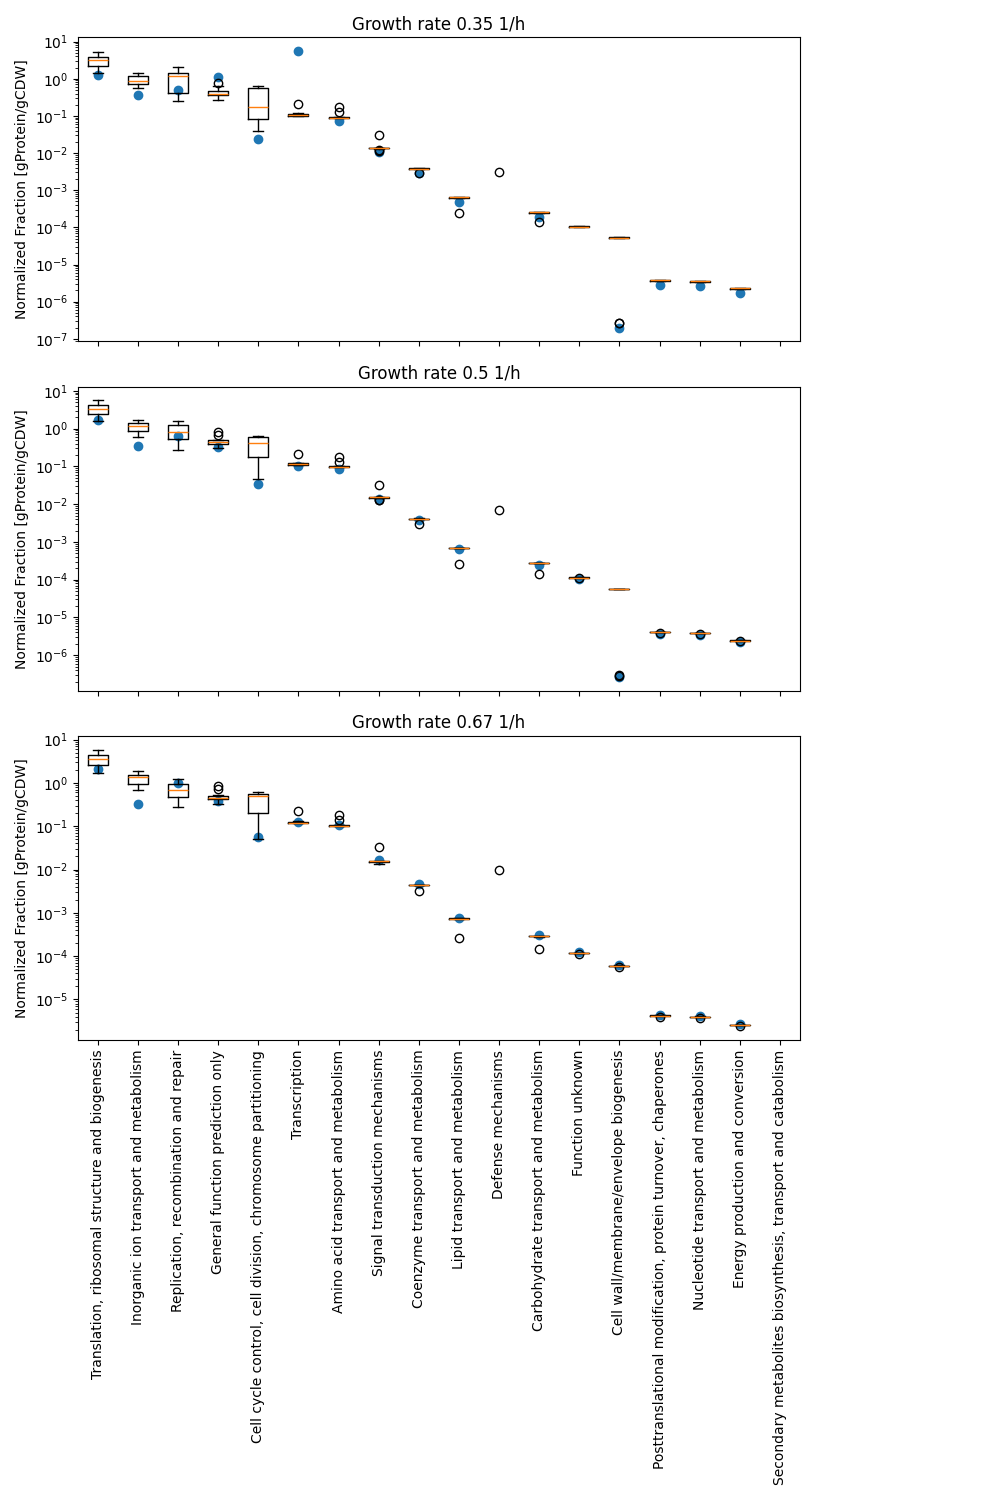
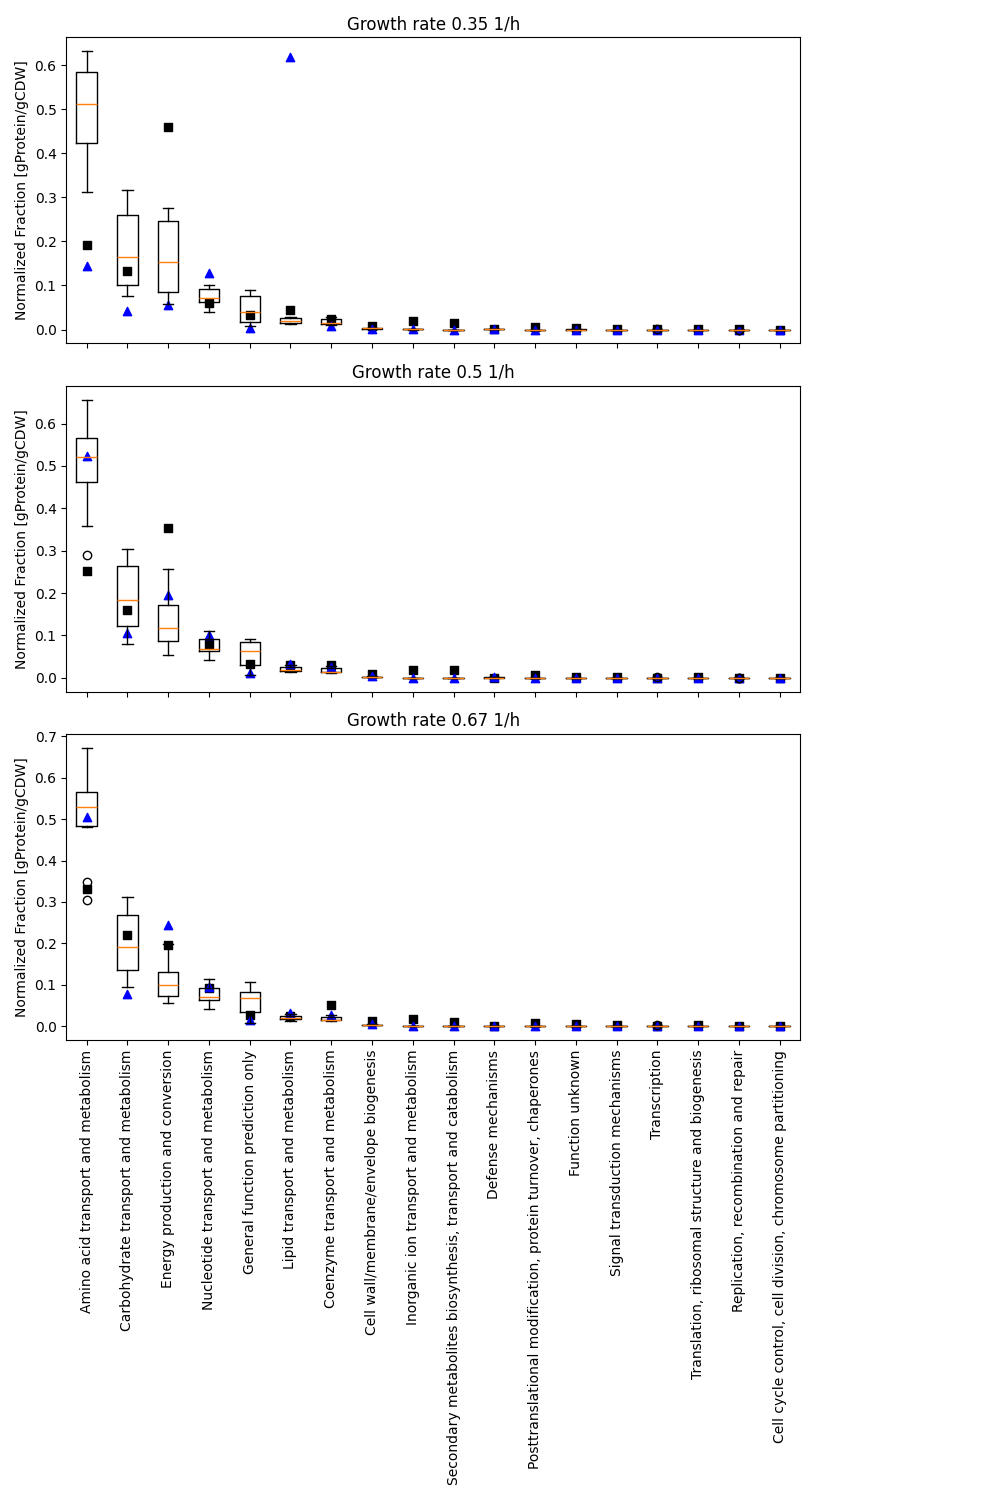
worked on figure for showing changes in protein concentration

diff --git a/Figures/Scripts/Figure3_kcat_protein_analysis.py b/Figures/Scripts/Figure3_kcat_protein_analysis.py
@@ -414,10 +414,11 @@ def parse_input_proteomics_data(ref_proteome_data_file:str,
                                 var_name='experiment', value_name='fraction').rename({'experiment': 'method'}, axis = 1)
     return ref_proteomics_normalized
 
-def get_changes_in_protein_abundance_per_cog(protein_conc_vs_cog_df):
+def get_changes_in_protein_abundance_per_cog(protein_conc_vs_cog_df,
+                                             per_method = False):
     measured_proteins = protein_conc_vs_cog_df.drop_duplicates(['enzyme_id', 'method'])
     measured_proteins['model'] = 'Measurements'
-    measured_proteins['fraction'] = measured_proteins['normalized_fraction']
+    protein_conc_vs_cog_df['fraction'] = protein_conc_vs_cog_df['normalized_fraction']
     total_proteome_df_cog_sum = pd.concat([protein_conc_vs_cog_df, measured_proteins])
     total_proteome_df_cog_sum = total_proteome_df_cog_sum.drop_duplicates()
 
@@ -428,20 +429,22 @@ def get_changes_in_protein_abundance_per_cog(protein_conc_vs_cog_df):
         lambda x: x if x < 0 else 0)
 
     # Compute the sum of 'fraction' for each model
-    total_proteome_df_cog_sum['fraction_sums'] = total_proteome_df_cog_sum.groupby(['model'])['fraction'].transform(
+    fraction_groups = ['model', 'method'] if per_method else ['model']
+    total_proteome_df_cog_sum['fraction_sums'] = total_proteome_df_cog_sum.groupby(fraction_groups)['fraction'].transform(
         'sum')
+    print(total_proteome_df_cog_sum)
     total_proteome_df_cog_sum['positive_change'] = total_proteome_df_cog_sum['positive_change'] / \
                                                    total_proteome_df_cog_sum['fraction_sums']
     # Aggregate the data and divide by the fraction sum per model
 
-    cog_summary_sum = total_proteome_df_cog_sum.groupby(['COG Name', 'model']).agg({
+    cog_summary_sum = total_proteome_df_cog_sum.groupby(['COG Name']+fraction_groups).agg({
         'positive_change': 'sum',
         'negative_change': 'sum'
     }).reset_index()
 
     cog_summary_long_sum = pd.melt(
         cog_summary_sum,
-        id_vars=['COG Name', 'model'],
+        id_vars=['COG Name']+fraction_groups,
         value_vars=['positive_change', 'negative_change'],
         var_name='Change Type',
         value_name='Change'
@@ -472,6 +475,8 @@ def create_proteomics_bargraph(got_enzymes_file: str,
     measured_protein_concentrations = parse_input_proteomics_data(ref_proteome_data_file=ref_proteome_data_file,
                                                                   uniprot_ref_file=uniprot_ref_file,
                                                                   got_enzymes_file=got_enzymes_file)
+    # print(simulated_protein_concentrations)
+    # print(measured_protein_concentrations)
     all_protein_concentrations = pd.merge(simulated_protein_concentrations, measured_protein_concentrations,
                                  on=['method', 'enzyme_id', 'rxn_id'], how='inner')
 
@@ -479,10 +484,33 @@ def create_proteomics_bargraph(got_enzymes_file: str,
                                                         left_on='b_number',
                                                         right_index=True).drop_duplicates()
     cog_changed_protein_conc = get_changes_in_protein_abundance_per_cog(protein_conc_vs_cog_df,)
+    # measured_proteins = all_protein_concentrations.drop_duplicates(['enzyme_id', 'method'])
+    # measured_proteins['model'] = 'Measurements'
+    # total_proteome_df_cog_sum = pd.concat([all_protein_concentrations, measured_proteins])
+    # protein_conc_vs_cog_df = (total_proteome_df_cog_sum
+    #                           .merge(protein2cog_df[['COG Name']],
+    #                                  left_on='b_number',
+    #                                  right_index=True)
+    #                           .drop_duplicates()[
+    #                               ['enzyme_id', 'rxn_id', 'model', 'COG Name', 'method', 'normalized_fraction',
+    #                                'fraction']]
+    #                           .groupby(['model', 'COG Name', 'method'])
+    #                           .sum()
+    #                           .reset_index()
+    #                           )
+    # protein_conc_vs_cog_df = protein_conc_vs_cog_df.drop_duplicates()
+    # cog_changed_protein_conc = protein_conc_vs_cog_df
+    # # cog_changed_protein_conc = protein_conc_vs_cog_df[protein_conc_vs_cog_df.method == 'Batch']
+    # cog_changed_protein_conc['COG description'] = cog_changed_protein_conc['COG Name']
+    # cog_changed_protein_conc['Change'] = cog_changed_protein_conc['normalized_fraction']
+    # cog_changed_protein_conc['alternative'] = cog_changed_protein_conc['model']
+    # print(cog_changed_protein_conc.alternative.unique())
 
     create_cog_barplot(cog_changed_protein_conc, ax, plotting_threshold=0.2, legend=True,
                        xlabel=r'$\sum\frac{g_{prot,COG}}{g_{protein}}$',
-                       other_colors={'GotEnzymes': 'grey', 'Measurements': 'grey', 'After preprocessing': 'black'})
+                       other_colors={'Measurements': 'grey','After preprocessing': 'black'})
+
+                       # other_colors={'GotEnzymes': 'grey',  'After preprocessing': 'black'})
 
 def create_proteomics_linegraphs(got_enzymes_file: str,
                                multi_file: str,
@@ -509,47 +537,64 @@ def create_proteomics_linegraphs(got_enzymes_file: str,
     all_protein_concentrations = pd.merge(simulated_protein_concentrations, measured_protein_concentrations,
                                  on=['method', 'enzyme_id', 'rxn_id'], how='inner')
 
-    protein_conc_vs_cog_df = (all_protein_concentrations
-                              .merge(protein2cog_df[['COG Name']],
-                                                        left_on='b_number',
-                                                        right_index=True)
-                              .drop_duplicates()[['enzyme_id', 'rxn_id', 'model', 'COG Name','method', 'normalized_fraction', 'fraction']]
-                              .groupby(['model', 'COG Name','method'])
-                              .sum()
-                              .reset_index()
-                              )
-    cog_order = (protein_conc_vs_cog_df.groupby('COG Name')
-               .sum()
-               .sort_values(by=['normalized_fraction'], ascending=False)
-               .reset_index()
-               )['COG Name']
 
+    protein_conc_vs_cog_df = all_protein_concentrations.merge(protein2cog_df[['COG Name']],
+                                                        left_on='b_number',
+                                                        right_index=True).drop_duplicates()
+    cog_changed_protein_conc = get_changes_in_protein_abundance_per_cog(protein_conc_vs_cog_df,
+                                                                        per_method = True)
+    cog_changed_protein_conc['model'] = cog_changed_protein_conc['alternative']
+
+    # protein_conc_vs_cog_df = (all_protein_concentrations
+    #                           .merge(protein2cog_df[['COG Name']],
+    #                                                     left_on='b_number',
+    #                                                     right_index=True)
+    #                           .drop_duplicates()[['enzyme_id', 'rxn_id', 'model', 'COG Name','method', 'normalized_fraction', 'fraction']]
+    #                           .groupby(['model', 'COG Name','method'])
+    #                           .sum()
+    #                           .reset_index()
+    #                           )
+    print(cog_changed_protein_conc.columns)
+    cog_order = (cog_changed_protein_conc.groupby('COG description')
+               .sum()
+               .sort_values(by=['Change'], ascending=False)
+               .reset_index()
+               )['COG description']
+    print(cog_order)
+    print(cog_changed_protein_conc.groupby('COG description')
+               .sum()
+               .sort_values(by=['Change'], ascending=False))
     model_colors = sns.color_palette("viridis", n_colors=10)
     cmap = {
         **{l: c for l, c in
            zip([f'Alternative {i + 1}' for i in range(10)], model_colors)},
-        **{'After preprocessing': 'black', 'measurements': 'black'}}
+        **{'After preprocessing': 'blue', 'Measurements': 'black'}}
 
     method2mu = {'Batch': 0.67, 'mu_5': 0.5, 'mu_35':0.35}
-    protein_conc_vs_cog_df['growth_rate'] = protein_conc_vs_cog_df['method'].apply(
+    cog_changed_protein_conc['growth_rate'] = cog_changed_protein_conc['method'].apply(
         lambda x: method2mu[x])
-    protein_conc_vs_cog_df = protein_conc_vs_cog_df.sort_values(by=['growth_rate'])
+    cog_changed_protein_conc = cog_changed_protein_conc.sort_values(by=['growth_rate'])
     fig, ax = plt.subplots(nrows=len(method2mu),figsize = (10,15), sharex=True)
-    mu2index = {mu:i for i, mu in enumerate(protein_conc_vs_cog_df['growth_rate'].unique())}
-    for growth_rate, df in protein_conc_vs_cog_df.groupby(['growth_rate']):
-        df_preproc = df[df.model == 'After preprocessing'].sort_values(
-            'COG Name',key=lambda s: pd.Categorical(s, categories=cog_order, ordered=True)
-)
-        df = df[df.model != 'After preprocessing']
-        fraction_per_cog = [df[df['COG Name'] == cog]['normalized_fraction'].values for cog in cog_order]
+    mu2index = {mu:i for i, mu in enumerate(cog_changed_protein_conc['growth_rate'].unique())}
+    for growth_rate, df in cog_changed_protein_conc.groupby(['growth_rate']):
         i = mu2index[growth_rate]
+
+        df = df[df['Change Type'] == 'positive_change'] #by definition change cannot be negative, this is in the columns for reusability of the function
+        for other_datapoint, marker in zip(['Measurements', 'After preprocessing'], [',', '^']):
+            df_other = df[df.model == other_datapoint].sort_values(
+                'COG description',key=lambda s: pd.Categorical(s, categories=cog_order, ordered=True)
+            )
+            ax[i].scatter(range(1, len(df_other['COG description'].unique())+1), df_other['Change'],
+                          label = other_datapoint, color = cmap[other_datapoint], marker=marker)
+        df = df[df.model != 'After preprocessing']
+        df= df[df.model != 'Measurements']
+        fraction_per_cog = [df[df['COG description'] == cog]['Change'].values for cog in cog_order]
         ax[i].set_title(f'Growth rate {growth_rate} 1/h')
         ax[i].boxplot(fraction_per_cog)
 
-        ax[i].scatter(range(1, len(df['COG Name'].unique())+1), df_preproc['normalized_fraction'])
-        ax[i].set_xticks(range(1, len(df['COG Name'].unique())+1), df['COG Name'].unique(), rotation=90)
+        ax[i].set_xticks(range(1, len(df['COG description'].unique())+1), cog_order, rotation=90)
         ax[i].set_ylabel('Normalized Fraction [gProtein/gCDW]')
-        ax[i].set_yscale('log')
+        # ax[i].set_yscale('log')
     # h, l = ax[0].get_legend_handles_labels()
     # handles, labels = [], []
     # for handle, label in zip(h,l):
@@ -701,3 +746,13 @@ if __name__ == '__main__':
                                  ax = ''
                                )
     # main()
+    # fig,ax = plt.subplots()
+    # create_proteomics_bargraph(got_enzymes_file=PARAM_FILE_ORI,
+    #                            multi_file=PARAM_FILE_PREPROC,
+    #                            diagnostic_files=diagnostic_files,
+    #                            model_file_path=MODEL_FILE,
+    #                            ref_proteome_data_file=REF_PROTEOMICS_FILE,
+    #                            uniprot_ref_file=UNIPROT_INFO_FILE,
+    #                              ax = ax
+    #                            )
+    # fig.savefig('Figures/test_bar.png')
